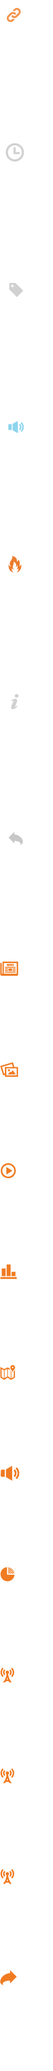
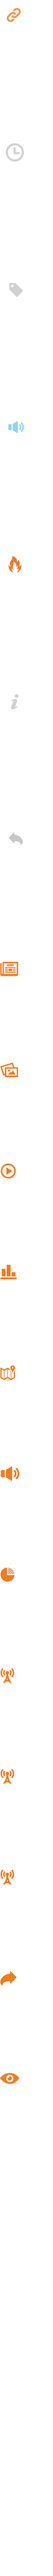
PIJ style added for 2013-vintage RELATED LINKS component.

diff --git a/app/assets/stylesheets/new/single.css.scss b/app/assets/stylesheets/new/single.css.scss
@@ -879,36 +879,33 @@ body.single .comments {
             li,a,mark,span      { display: block; }
             ul li               { margin: 0 0 12px 0; }
             ul li:last-child    { margin-bottom: 0; }
-            mark {
-                color: #656565;
-                line-height: 1.1;
-                padding-bottom: 2px;
-                border-bottom: 1px solid #f6e3d6;
-            }
-            a {
-                padding: 0 0 0 25px;
-                @include single-report-icons;
-            }
-            .article a      { background-position: 0 -894px; }
-            .slideshow a    { background-position: 0 -988px; }
-            .video a		    { background-position: 0 -1082px; }
-            .poll a			    { background-position: 0 -1176px; }
-            .map a			    { background-position: 0 -1270px; }
-            .audio a		    { background-position: 0 -1364px; }
-            .infographic a	{ background-position: 0 -1458px; }
-            .taketwo a		  { background-position: 0 -1552px; }
-            .airtalk a		  { background-position: 0 -1646px; }
-            .offramp a		  { background-position: 0 -1740px; }
-            .outbound a     { background-position: 0 -1834px; }
-
-            span {
-                text-transform: uppercase;
-                color: #bca18d;
-                font-weight: 700;
-                font-size: 0.625em;
-            }
+            mark                { color: #656565; line-height: 1.1; padding-bottom: 2px; border-bottom: 1px solid #f6e3d6; }
+            a                   { padding: 0 0 0 25px; @include single-report-icons; }
+            .article a          { background-position: 0 -894px; }
+            .slideshow a        { background-position: 0 -988px; }
+            .video a		        { background-position: 0 -1082px; }
+            .poll a			        { background-position: 0 -1176px; }
+            .map a			        { background-position: 0 -1270px; }
+            .audio a		        { background-position: 0 -1364px; }
+            .infographic a	    { background-position: 0 -1458px; }
+            .taketwo a		      { background-position: 0 -1552px; }
+            .airtalk a		      { background-position: 0 -1646px; }
+            .offramp a		      { background-position: 0 -1740px; }
+            .outbound a         { background-position: 0 -1834px; }
+            .query > a          { background-position: 0 -1928px; }
+            span                { text-transform: uppercase; color: #bca18d; font-weight: 700; font-size: 0.625em; }
             a:hover mark        { color: black; border-bottom-color: $orange; }
             a:hover span        { color: #ad6631; }
+            .query > span > a { // "Learn More About The Public Insight Network"
+              background: none;
+              background: image-url("i/swoopy-arrow.png") no-repeat right 2px;
+              background-size: 11px 60px;
+              padding-right: 15px;
+              box-sizing: border-box;
+              display: inline-block;
+              color: #e3b18f;
+              &:hover           { color: #51899b; background-position: right -48px; }
+            }
         }
         &.previously {
             padding-bottom: 15px;
@@ -922,7 +919,7 @@ body.single .comments {
                 a:hover time    { color: black; }
             }
         }
-    }
+    }//.related,.previously
 
     .comments-trigger {
         width: 100%;

diff --git a/app/assets/stylesheets/new/globals.css.scss b/app/assets/stylesheets/new/globals.css.scss
@@ -93,7 +93,7 @@ $orange: #f17b21;
 }
 @mixin single-report-icons {
   background: image-url("i/single-report-icons.png") no-repeat 0 -894px;
-  background-size: 50px 1930px;
+  background-size: 50px 2400px;
 }
 
 
